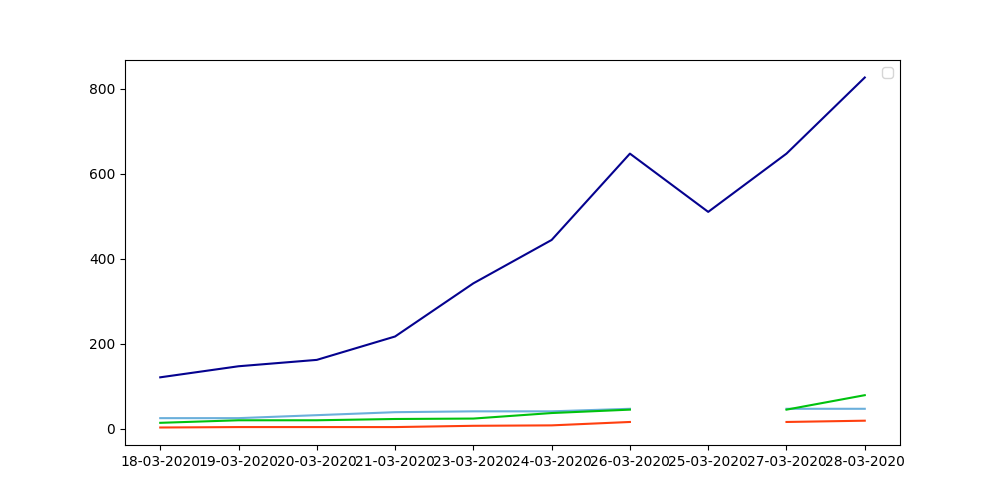
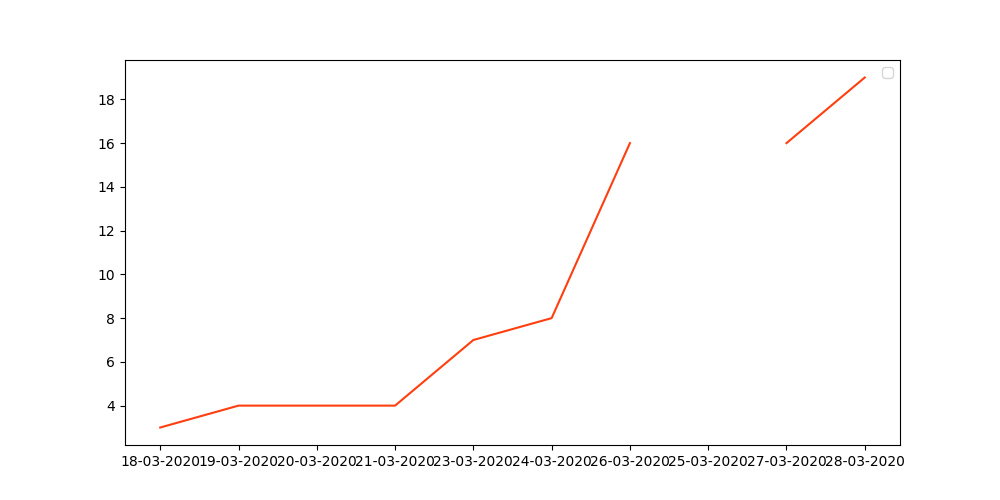
Seperated graphs

diff --git a/COVID-19-Tracker/plot_graph.py b/COVID-19-Tracker/plot_graph.py
@@ -119,15 +119,21 @@ def spread_chart():
         death_lst.append(sum(death))
 
     # Plotting categorically
-    plt.figure(figsize=(10, 5))
-    plt.plot(x_labels, cnf_in_lst, color='#05028f')
-    plt.plot(x_labels, cnf_fn_lst, color='#6aafdb')
-    plt.plot(x_labels, cured_lst, color='#00c20f')
-    plt.plot(x_labels, death_lst, color='#ff3f0f')
-    plt.legend()
-    plt.savefig("saved_graphs/" + x_labels[-1] + "_progress" + ".png")      # Save Figure
+    linePlot(x_labels, cnf_in_lst, '#05028f')
+    linePlot(x_labels, cnf_fn_lst, '#6aafdb')
+    linePlot(x_labels, cured_lst,'#00c20f')
+    linePlot(x_labels, death_lst, '#ff3f0f')
+    #plt.legend()
+    #plt.savefig("saved_graphs/" + x_labels[-1] + "_progress" + ".png")      # Save Figure
     plt.show()
-bar_chart()
+
+def linePlot(labels, lst, clr):
+    plt.figure(figsize=(10, 5))
+    plt.plot(labels, lst, color = clr)
+
+
+#bar_chart()
+
 spread_chart()
 
 
